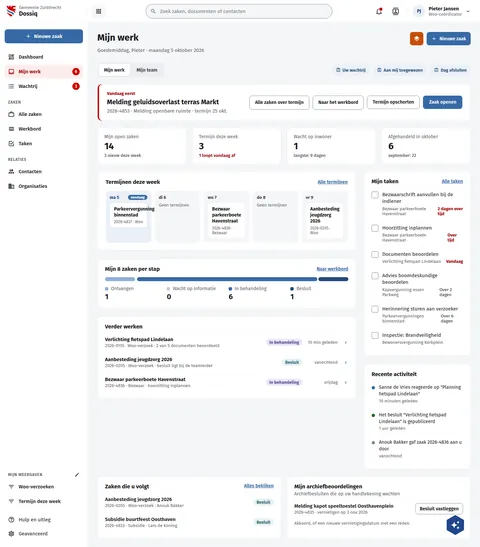
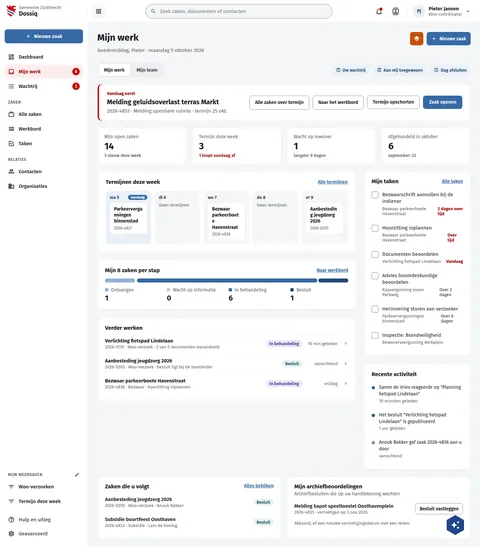
fix(screens): DqMijnWerk week items wrap inside their box and show the case number
Termijnen deze week: a long title wraps inside its item, as live does,
instead of running past the item edge. The meta line is the case
number only; the case carries no short case type name to show after
it. Built with build.py --only DqMijnWerk; height unchanged.

Assisted-by: ClaudeCode:claude-opus-5-5

diff --git a/preview/screens/boards/DqMijnWerk.html b/preview/screens/boards/DqMijnWerk.html
@@ -202,7 +202,7 @@ a{color:var(--sc-primary, #3669a5)}a:hover{color:var(--sc-primary-deep, #234a78)
                     <li style="display: flex; flex-direction: column; gap: 8px; padding: 12px; border-radius: 10px; min-height: 132px; background: var(--sc-primary-light, #eaf0f7)">
                       <span style="display: flex; align-items: center; justify-content: space-between; gap: 6px; font-size: 13px; font-weight: 700; color: var(--sc-primary-deep, #234a78)">ma 5<span style="padding: 1px 8px; border-radius: 10px; background: var(--sc-primary, #3669a5); color: #ffffff; font-size: 11px; font-weight: 700">vandaag</span></span>
                       
-                        <a href="DqZaak.html" style="display: flex; flex-direction: column; gap: 4px; padding: 10px 12px; border-radius: 8px; text-decoration: none; background: #ffffff; border: 1px solid var(--sc-work-line, #e4e6ea)"><strong style="font-size: 14px; line-height: 1.3; color: var(--sc-work-ink, #1b1c1d)">Parkeervergunningen binnenstad</strong><span style="font-size: 12px; color: var(--sc-work-muted, #5e6168)">2026-4837 · Woo</span></a>
+                        <a href="DqZaak.html" style="display: flex; flex-direction: column; gap: 4px; padding: 10px 12px; border-radius: 8px; text-decoration: none; background: #ffffff; border: 1px solid var(--sc-work-line, #e4e6ea)"><strong style="font-size: 14px; line-height: 1.3; color: var(--sc-work-ink, #1b1c1d); overflow-wrap: anywhere">Parkeervergunningen binnenstad</strong><span style="font-size: 12px; color: var(--sc-work-muted, #5e6168)">2026-4837</span></a>
                       
                       
                     </li>
@@ -216,7 +216,7 @@ a{color:var(--sc-primary, #3669a5)}a:hover{color:var(--sc-primary-deep, #234a78)
                     <li style="display: flex; flex-direction: column; gap: 8px; padding: 12px; border-radius: 10px; min-height: 132px; background: var(--sc-work-ground, #f5f6f8)">
                       <span style="display: flex; align-items: center; justify-content: space-between; gap: 6px; font-size: 13px; font-weight: 700; color: var(--sc-work-text, #3d4047)">wo 7</span>
                       
-                        <a href="DqZaak.html" style="display: flex; flex-direction: column; gap: 4px; padding: 10px 12px; border-radius: 8px; text-decoration: none; background: #ffffff; border: 1px solid var(--sc-work-line, #e4e6ea)"><strong style="font-size: 14px; line-height: 1.3; color: var(--sc-work-ink, #1b1c1d)">Bezwaar parkeerboete Havenstraat</strong><span style="font-size: 12px; color: var(--sc-work-muted, #5e6168)">2026-4836 · Bezwaar</span></a>
+                        <a href="DqZaak.html" style="display: flex; flex-direction: column; gap: 4px; padding: 10px 12px; border-radius: 8px; text-decoration: none; background: #ffffff; border: 1px solid var(--sc-work-line, #e4e6ea)"><strong style="font-size: 14px; line-height: 1.3; color: var(--sc-work-ink, #1b1c1d); overflow-wrap: anywhere">Bezwaar parkeerboete Havenstraat</strong><span style="font-size: 12px; color: var(--sc-work-muted, #5e6168)">2026-4836</span></a>
                       
                       
                     </li>
@@ -230,7 +230,7 @@ a{color:var(--sc-primary, #3669a5)}a:hover{color:var(--sc-primary-deep, #234a78)
                     <li style="display: flex; flex-direction: column; gap: 8px; padding: 12px; border-radius: 10px; min-height: 132px; background: var(--sc-work-ground, #f5f6f8)">
                       <span style="display: flex; align-items: center; justify-content: space-between; gap: 6px; font-size: 13px; font-weight: 700; color: var(--sc-work-text, #3d4047)">vr 9</span>
                       
-                        <a href="DqZaak.html" style="display: flex; flex-direction: column; gap: 4px; padding: 10px 12px; border-radius: 8px; text-decoration: none; background: #ffffff; border: 1px solid var(--sc-work-line, #e4e6ea)"><strong style="font-size: 14px; line-height: 1.3; color: var(--sc-work-ink, #1b1c1d)">Aanbesteding jeugdzorg 2026</strong><span style="font-size: 12px; color: var(--sc-work-muted, #5e6168)">2026-0205 · Woo</span></a>
+                        <a href="DqZaak.html" style="display: flex; flex-direction: column; gap: 4px; padding: 10px 12px; border-radius: 8px; text-decoration: none; background: #ffffff; border: 1px solid var(--sc-work-line, #e4e6ea)"><strong style="font-size: 14px; line-height: 1.3; color: var(--sc-work-ink, #1b1c1d); overflow-wrap: anywhere">Aanbesteding jeugdzorg 2026</strong><span style="font-size: 12px; color: var(--sc-work-muted, #5e6168)">2026-0205</span></a>
                       
                       
                     </li>

diff --git a/screens-src/zuiddrecht/DqMijnWerk.dc.html b/screens-src/zuiddrecht/DqMijnWerk.dc.html
@@ -66,7 +66,7 @@ a{color:#3669a5}a:hover{color:#234a78}
                     <li style="{{ d.box }}">
                       <span style="{{ d.head }}">{{ d.label }}<sc-if value="{{ d.today }}" hint-placeholder-val="{{ false }}"><span style="padding: 1px 8px; border-radius: 10px; background: #3669a5; color: #ffffff; font-size: 11px; font-weight: 700">vandaag</span></sc-if></span>
                       <sc-for list="{{ d.items }}" as="i" hint-placeholder-count="1">
-                        <a href="DqZaak.dc.html" style="{{ i.box }}"><strong style="font-size: 14px; line-height: 1.3; color: #1b1c1d">{{ i.title }}</strong><span style="font-size: 12px; color: #5e6168">{{ i.meta }}</span></a>
+                        <a href="DqZaak.dc.html" style="{{ i.box }}"><strong style="font-size: 14px; line-height: 1.3; color: #1b1c1d; overflow-wrap: anywhere">{{ i.title }}</strong><span style="font-size: 12px; color: #5e6168">{{ i.meta }}</span></a>
                       </sc-for>
                       <sc-if value="{{ d.empty }}" hint-placeholder-val="{{ false }}"><span style="font-size: 13px; color: #5e6168">Geen termijnen</span></sc-if>
                     </li>
@@ -145,11 +145,11 @@ class Component extends DCLogic {
     ];
     const item = (title, meta, late) => ({ title, meta, box: 'display: flex; flex-direction: column; gap: 4px; padding: 10px 12px; border-radius: 8px; text-decoration: none; background: #ffffff; border: 1px solid ' + (late ? '#ebb3b0' : '#e4e6ea') + (late ? '; box-shadow: inset 3px 0 0 #cc0000' : '') });
     const rawDays = [
-      ['ma 5', true, [item('Parkeervergunningen binnenstad', '2026-4837 · Woo', false)]],
+      ['ma 5', true, [item('Parkeervergunningen binnenstad', '2026-4837', false)]],
       ['di 6', false, []],
-      ['wo 7', false, [item('Bezwaar parkeerboete Havenstraat', '2026-4836 · Bezwaar', false)]],
+      ['wo 7', false, [item('Bezwaar parkeerboete Havenstraat', '2026-4836', false)]],
       ['do 8', false, []],
-      ['vr 9', false, [item('Aanbesteding jeugdzorg 2026', '2026-0205 · Woo', false)]]
+      ['vr 9', false, [item('Aanbesteding jeugdzorg 2026', '2026-0205', false)]]
     ];
     const days = rawDays.map(([label, today, items]) => ({
       label, today, items, empty: items.length === 0,
